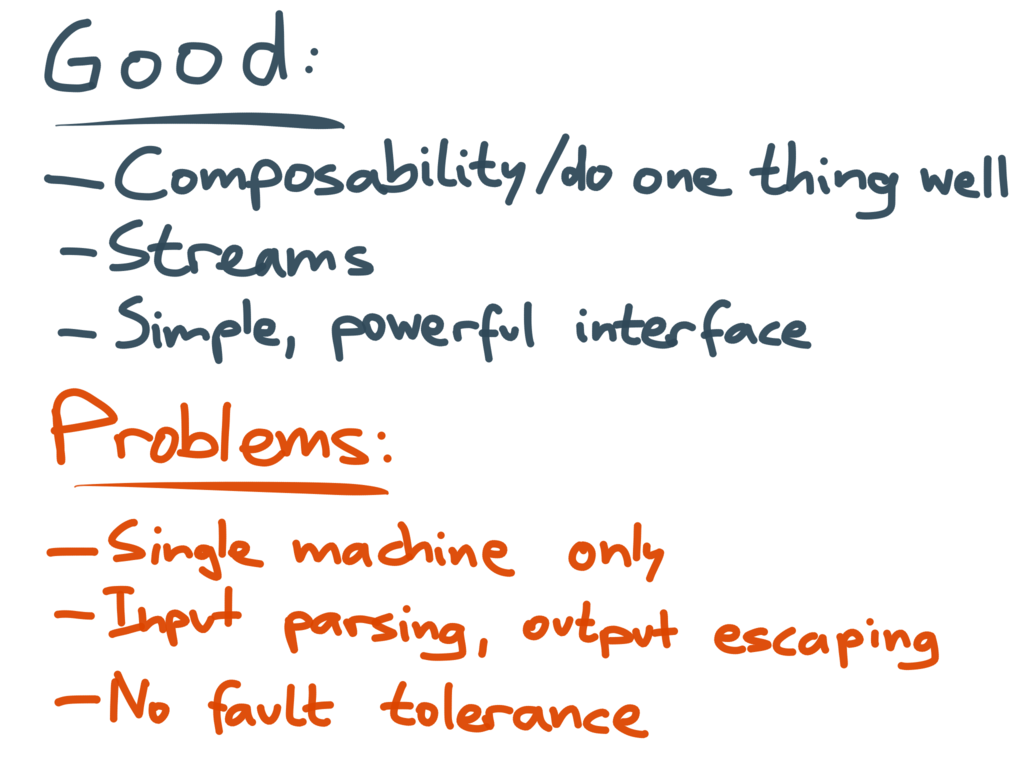
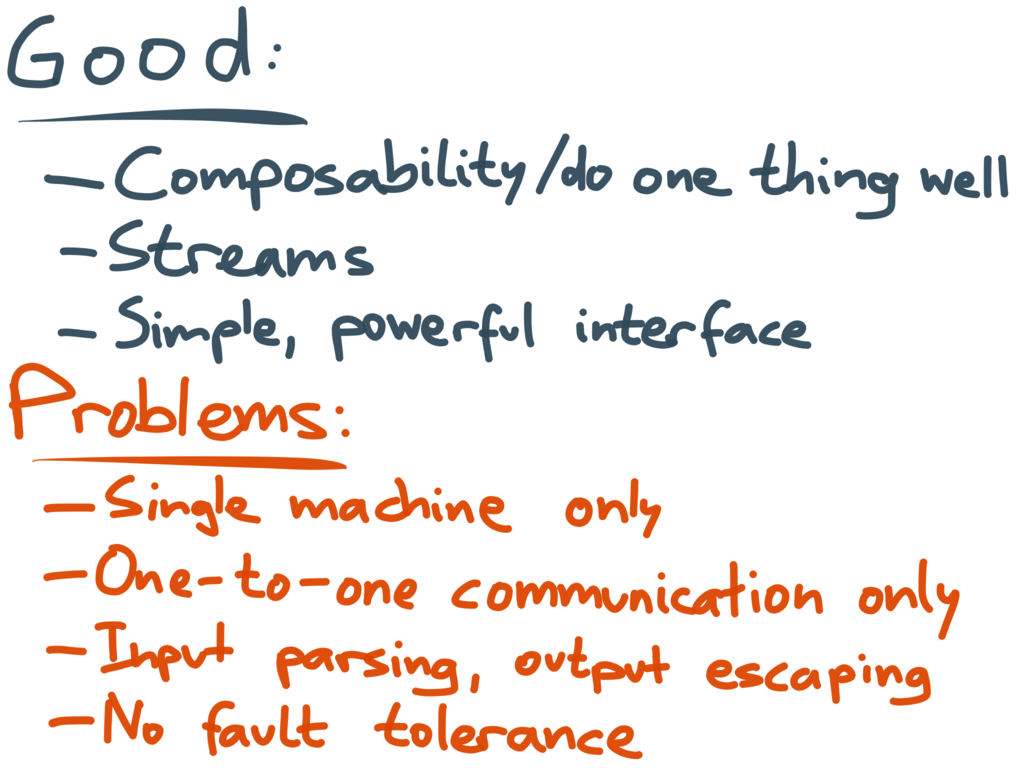
Unix philosophy post feedback

Changed region(s): [[0.0, 0.4688, 0.9375, 1.0], [0.0, 0.0, 0.3438, 0.1875]]

diff --git a/src/unix-philosophy-draft.md b/src/unix-philosophy-draft.md
@@ -1,6 +1,6 @@
 ---
 layout: ync-post
-title: The Unix Philosophy of distributed data
+title: Kafka, Samza, and the Unix philosophy of distributed data
 ---
 
 One of the things I realised while doing research for [my book](http://dataintensive.net/) is that
@@ -17,8 +17,11 @@ data systems learnt a thing or two from Unix.
 
 <img src="/2015/08/unixphil-01.png" width="550" height="412">
 
-You've probably seen the power of Unix tools before -- but to get started, let me give you
-a concrete example that we can talk about.
+In particular, I'm going to argue that there are a lot of similarities between Unix pipes and Apache
+Kafka, and that this similarity enables good architectural styles for large-scale applications. But
+before we get into that, let me remind you of the foundations of the Unix philosophy. You've
+probably seen the power of Unix tools before -- but to get started, let me give you a concrete
+example that we can talk about.
 
 Say you have a web server that writes an entry to a log file every time it serves a request. For
 example, using the nginx default access log format, one line of the log might look like this:
@@ -27,14 +30,14 @@ example, using the nginx default access log format, one line of the log might lo
     200 3377 "http://martin.kleppmann.com/" "Mozilla/5.0 (Macintosh; Intel Mac OS X
     10_9_5) AppleWebKit/537.36 (KHTML, like Gecko) Chrome/40.0.2214.115 Safari/537.36"
 
-(That is actually one line, it's only broken onto multiple lines here for readability.) This line of
-the log indicates that on 27 February 2015 at 17:55:11 UTC, the server received a request for the
+(That is actually one line, it's only broken up into multiple lines here for readability.) This line
+of the log indicates that on 27 February 2015 at 17:55:11 UTC, the server received a request for the
 file `/css/typography.css` from the client IP address 216.58.210.78. It then goes on to note various
 other details, including the browser's user-agent string.
 
 Various tools can take these log files and produce pretty reports about your website traffic, but
-for the sake of exercise, let's build our own, using basic Unix tools. Let's determine the 5 most
-popular URLs on our website. To start with, we need to extract the path of the URL that was
+for the sake of the exercise, let's build our own, using basic Unix tools. Let's determine the
+5 most popular URLs on our website. To start with, we need to extract the path of the URL that was
 requested, for which we can use `awk`.
 
 `awk` doesn't know about the format of nginx logs -- it just treats the log file as text. By
@@ -189,10 +192,11 @@ procedural language such as [PL/SQL](http://www.oracle.com/technetwork/database/
 [JavaScript](https://blog.heroku.com/archives/2013/6/5/javascript_in_your_postgres)). However, the
 things you can do in stored procedures are limited.
 
-Other extension points in some databases are support for custom datatypes (this was one of the early
-[design goals of Postgres](http://db.cs.berkeley.edu/papers/ERL-M85-95.pdf)), or pluggable storage
-engines. Essentially, these are plugin APIs: you can run your code in the database server, provided
-that your module adheres to a plugin API exposed by the database server for a particular purpose.
+Other extension points in some databases are support for custom data types (this was one of the
+early [design goals of Postgres](http://db.cs.berkeley.edu/papers/ERL-M85-95.pdf)), or pluggable
+storage engines. Essentially, these are plugin APIs: you can run your code in the database server,
+provided that your module adheres to a plugin API exposed by the database server for a particular
+purpose.
 
 This kind of extensibility is not the same as the arbitrary composability we saw with Unix tools.
 The plugin API is totally controlled by the database server, and subordinate to it. Your extension
@@ -227,12 +231,13 @@ full-text search, graph indexes for connected data, machine learning systems for
 engines, a push mechanism for notifications, various different cached representations of the data
 for fast reads, and so on.
 
-There is no way that a single monolithic database can provide all of those capabilities. There is no
-[“one size fits all” database](https://cs.brown.edu/~ugur/fits_all.pdf); rather, there are various
-different data storage and indexing systems that provide individual capabilities that you need. For
-example, you may take the same data and store it in a relational database for random access, in
-Elasticsearch for full-text search, in a columnar format in Hadoop for analytics, and cached in
-a denormalised form in memcached.
+A general-purpose database may try to do all of those things in one product
+([“one size fits all”](https://cs.brown.edu/~ugur/fits_all.pdf)), but in all likelihood it will not
+perform as well as a tool that is specialized for one particular purpose. In practice, you can often
+get the best results by combining various different data storage and indexing systems: for example,
+you may take the same data and store it in a relational database for random access, in Elasticsearch
+for full-text search, in a columnar format in Hadoop for analytics, and cached in a denormalized
+form in memcached.
 
 When you need to integrate different databases, the lack of Unix-style composability is a severe
 limitation. (I've
@@ -321,6 +326,10 @@ Unix has some limitations:
   [somewhat messy](http://blog.netherlabs.nl/articles/2009/01/18/the-ultimate-so_linger-page-or-why-is-my-tcp-not-reliable)
   edge case semantics. TCP is good, but by itself it's too low-level to serve as a distributed pipe
   implementation.
+* A Unix pipe is designed to have a single sender process, and a single recipient. You can't use
+  pipes to send output to several processes, or to collect input from several processes. (You can
+  branch a pipeline with [`tee`](http://linux.die.net/man/1/tee), but a pipe itself is always
+  one-to-one.)
 * ASCII text (or rather, UTF-8) is great for making data easily explorable, but it quickly gets
   messy. Every process needs to be set up with its own input parsing: first breaking the byte stream
   into records (usually separated by newline, though some advocate `0x1e`, the [ASCII record
@@ -329,8 +338,9 @@ Unix has some limitations:
   beginning. Separator characters that appear in the data need to be escaped somehow. Even
   a fairly simple tool like [`xargs`](http://unixhelp.ed.ac.uk/CGI/man-cgi?xargs) has about half
   a dozen command-line options to specify how its input should be parsed. Text-based interfaces work
-  tolerably well, but in retrospect, I am pretty sure this is not what you'd design if you were
-  starting out from scratch.
+  tolerably well, but in retrospect, I am pretty sure that a richer data model with
+  [explicit schemas](http://radar.oreilly.com/2014/11/the-problem-of-managing-schemas.html)
+  would have worked better.
 * Unix processes are generally assumed to be fairly short-running. For example, if a process
   in the middle of a pipeline crashes, there is no way for it to resume processing from its input
   pipe -- the entire pipeline fails and must be re-run from scratch. That's no problem if the
@@ -346,16 +356,22 @@ The cool thing is that this solution already exists, and is implemented in
 [Kafka](http://kafka.apache.org/) and [Samza](http://samza.apache.org/), two open source projects
 that work together to provide distributed stream processing.
 
-As you probably already know from other posts on this blog, Kafka is a scalable distributed message
-broker, and Samza is a framework that lets you write code to consume and produce data streams.
+
+
+As you probably already know from
+[other](http://www.confluent.io/blog/stream-data-platform-1/)
+[posts](http://www.confluent.io/blog/using-logs-to-build-a-solid-data-infrastructure-or-why-dual-writes-are-a-bad-idea/)
+on this blog, Kafka is a scalable distributed message broker, and Samza is a framework that lets you
+write code to consume and produce data streams.
 
 <img src="/2015/08/unixphil-25.png" width="550" height="412">
 
 In fact, when you look at it through the Unix lens, Kafka looks quite like the pipe that connects
 the output of one process to the input of another. And Samza looks quite like a standard library
 that helps you read `stdin` and write `stdout` (and a few helpful additions, such as a deployment
-mechanism, [state management](http://samza.apache.org/learn/documentation/0.9/container/state-management.html),
-metrics and monitoring).
+mechanism,
+[state management](http://samza.apache.org/learn/documentation/0.9/container/state-management.html),
+metrics, and monitoring).
 
 The style of stream processing jobs that you can write with Kafka and Samza closely follows the Unix
 tradition of small, composable tools:
@@ -371,6 +387,12 @@ Kafka addresses the downsides of Unix pipes that we discussed previously:
 
 * The single-machine limitation is lifted: Kafka itself is distributed by default, and any stream
   processors that use it can also be distributed across multiple machines.
+* A Unix pipe connects exactly one process output with exactly one process input, whereas a stream
+  in Kafka can have many producers and many consumers. Many inputs is important for services that
+  are distributed across multiple machines, and many outputs makes Kafka more like a broadcast
+  channel. This is very useful, since it allows the same data stream to be consumed independently
+  for several different purposes (including monitoring and audit purposes, which are often outside
+  of the application itself). Kafka consumers can come and go without affecting other consumers.
 * Kafka also provides good fault tolerance: data is replicated across multiple Kafka nodes, so if
   one node fails, another node can automatically take over. If a stream processor node fails and is
   restarted, it can resume processing at its last checkpoint.
@@ -398,27 +420,22 @@ briefly:
   making it safe for multiple processes to concurrently write to the same stream.
 * Unix pipes are just a small in-memory buffer, whereas Kafka durably writes all messages to disk.
   In this regard, Kafka is less like a pipe, and more like one process writing to a temporary file,
-  while another process continuously reads that file using `tail -f`. Kafka's approach provides
-  better fault tolerance, since it allows a consumer to fail and restart without skipping messages.
-  Kafka automatically splits those 'temporary' files into segments and garbage-collects old segments
-  on a configurable schedule.
+  while several other processes continuously read that file using `tail -f` (each consumer tails the
+  file independently). Kafka's approach provides better fault tolerance, since it allows a consumer
+  to fail and restart without skipping messages. Kafka automatically splits those 'temporary' files
+  into segments and garbage-collects old segments on a configurable schedule.
 * In Unix, if the consuming process of a pipe is slow to read the data, the buffer fills up and the
   sending process is blocked from writing to the pipe. This is a kind of backpressure. In Kafka, the
   producer and consumer are more decoupled: a slow consumer has its input buffered, so it doesn't
-  slow down the producer or other consumers. As long as the buffer fits within your available disk
-  space, the slow consumer can catch up later. This makes the system less sensitive to individual
-  slow components, and more robust overall.
-* A Unix pipe connects exactly one process output with exactly one process input (you can branch
-  a pipeline with [`tee`](http://linux.die.net/man/1/tee), but a pipe itself is always one-to-one).
-  By contrast, a Kafka stream can have many producers and many consumers, making it more like
-  a broadcast channel. This is very useful, since it allows the same data stream to be consumed
-  independently for several different purposes (including monitoring and audit purposes, which are
-  often outside of the application itself).
+  slow down the producer or other consumers. As long as the buffer fits within Kafka's available
+  disk space, the slow consumer can catch up later. This makes the system less sensitive to
+  individual slow components, and more robust overall.
 * A data stream in Kafka is called a *topic*, and you can refer to it by name (which makes it more
   like a Unix [named pipe](http://vincebuffalo.com/2013/08/08/the-mighty-named-pipe.html).
-  A pipeline of Unix programs is usually started all at once, but a long-running application has
-  bits added, removed or replaced gradually over time. This means your pipes need names, so that
-  you can tell the system what you want to connect to.
+  A pipeline of Unix programs is usually started all at once, so the pipes normally don't need
+  explicit names. On the other hand, a long-running application usually has bits added, removed or
+  replaced gradually over time, so you need names in order to tell the system what you want to
+  connect to. Naming also helps with discovery and management.
 
 Despite those differences, I still think it makes sense to think of Kafka as Unix pipes for
 distributed data. For example, one thing they have in common is that Kafka keeps messages in a fixed
@@ -469,68 +486,14 @@ teams.
 
 <img src="/2015/08/unixphil-30.png" width="550" height="412">
 
-This idea of decomposing a large application into loosely coupled components is reminiscent of
-microservices. Indeed, many of the goals are the same, and microservices
-[have also been compared to Unix tools](http://www.infoq.com/articles/microservices-intro). So what
-should you be using?
-
-Microservices are great for gathering together various pieces of information that need to be shown
-to the user as part of a user's web request. These requests are usually *synchronous*, i.e. they
-need to complete before the response can be sent to the user. Such service calls are on the critical
-path to getting the page rendered, so you need them to be always fast and reliable, otherwise the
-user experience is degraded.
-
-However, not everything has to be on that critical path. Many metrics, monitoring, analytics or
-recommendation systems just need to find out about what is happening, but they don't immediately
-feed into the response to the user. It's better to get those things off the critical path and into
-*asynchronous* background processes, so that they don't slow down the user's request unnecessarily.
-For such use cases, stream processing works better.
-
-<img src="/2015/08/unixphil-31.png" width="550" height="412">
-
-Here are a few points for comparing microservices and stream processing:
-
-* As previously mentioned, Kafka acts as a buffer for stream processors, so if a processor is
-  running slow, it doesn't affect the services that are publishing messages. This is good for
-  robustness of the system overall: since the services that publish messages are often the ones
-  handling user requests, it's important to make sure that they is not disrupted by some
-  non-critical monitoring job in the background.
-
-  The buffer also ensures that the slow processor can catch up when it recovers. By contrast,
-  microservices have no such buffer: if a service is slow to respond, the caller can at best retry
-  a few times (perhaps exacerbating the load problem further), but eventually it will have to give
-  up, so the message is lost.
-
-* Since a Kafka topic can have many subscribers, a service can just publish events without caring
-  who consumes them. Anyone with appropriate permissions can consume the data, without having to ask
-  the publisher for permission.
-  
-  Microservices don't have this decoupling, since service calls are one-to-one: if you want to
-  receive a service call every time a user views a page, you have to modify the service that handles
-  page views, and make it call your service. You can't just passively attach to a service (unless
-  it has specifically made some provision for registering callbacks or suchlike).
-
-* Calls to microservices often modify data stored within a service, i.e. they have side-effects. On
-  the other hand, stream processing doesn't modify the original data (if any data is written, it is
-  normally written to a new location, not overwriting existing data). This makes stream processing
-  more friendly to experimentation: you can try something, write the output to a temporary file, and
-  delete it again without doing any harm. With microservices, you'd have to first create a separate
-  sandbox copy of your data, since otherwise your experimental requests would be modifying real
-  data.
-
-  One way of thinking about this: microservices are a distributed version of object-oriented
-  programming (objects encapsulate their instance variables, services encapsulate their databases),
-  whereas stream processing is a distributed version of functional programming.
-
-<img src="/2015/08/unixphil-32.png" width="550" height="412">
-
 To wrap up this post, let's consider a real-life example of how this works at LinkedIn. As you may
 know, companies can post their job openings on LinkedIn, and jobseekers can browse and apply for
 those jobs. What happens if a LinkedIn member (user) views one of those job postings?
 
 It's very useful to know who has looked at which jobs, so the service that handles job views
 publishes an event to Kafka, saying something like "member 123 viewed job 456 at time 789". Now that
-this information is in Kafka, it can be used for many good purposes:
+this information is in Kafka, it can be used for many
+[good purposes](http://sites.computer.org/debull/A12june/A12JUN-CD.pdf):
 
 * **Monitoring systems**: Companies pay LinkedIn to post their job openings, so it's important that
   the site is working correctly. If the rate of job views drops unexpectedly, alarms should go off,
@@ -560,5 +523,11 @@ in a robust way.
 [Designing Data-Intensive Applications](http://dataintensive.net/), published by
 [O'Reilly](http://shop.oreilly.com/product/0636920032175.do).*
 
-*Thank you to [Jay Kreps](https://twitter.com/jaykreps) for feedback on a draft of this post, and
-for providing the LinkedIn job view example.*
+*Thank you to [Jay Kreps](https://twitter.com/jaykreps),
+[Gwen Shapira](https://twitter.com/gwenshap),
+[Michael Noll](http://www.michael-noll.com/),
+[Ewen Cheslack-Postava](http://www.ewencp.org/),
+[Jason Gustafson](https://www.linkedin.com/in/jasongustafson), and
+[Jeff Hartley](https://twitter.com/jeff_hartley)
+for feedback on a draft of this post,
+and thanks also to Jay for providing the LinkedIn job view example.*
